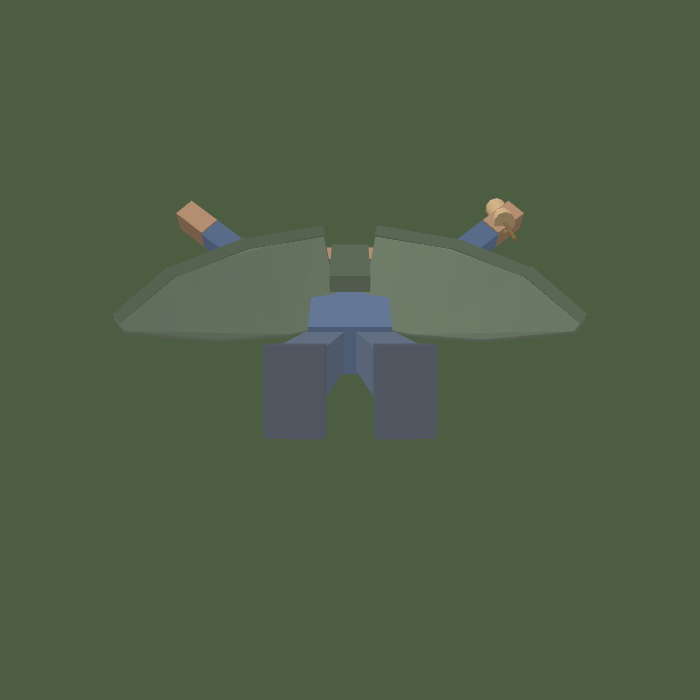
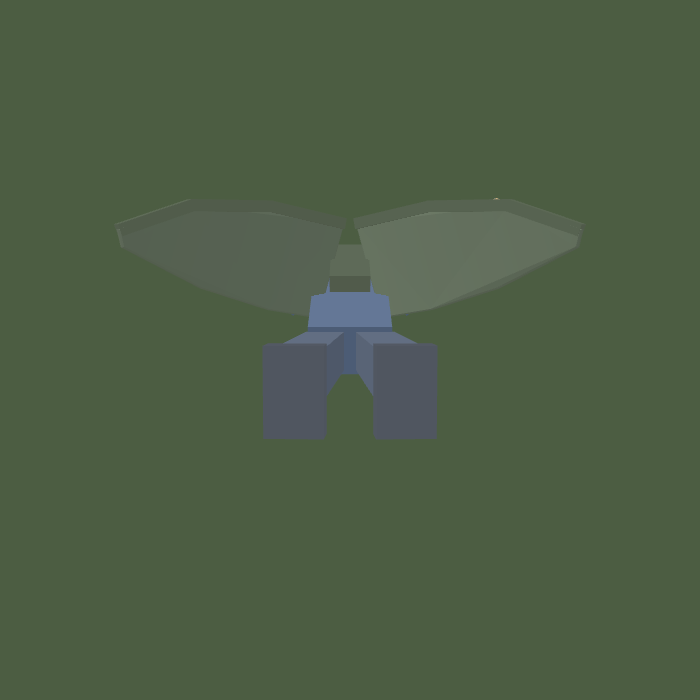
Wings that hold the body up rather than hang off it
Measured root to tip along the mid-chord, in the world, over the pitches of a
real glide:

  pitch          dive 0.30   0.15   level   climb -0.25
  dihedral before    -13.6   -9.2    -4.6          +3.4
  dihedral after     +11.6  +14.9   +17.9         +24.4
  sweep after         31.8   30.6    29.5          25.1
  square to chase     0.88   0.88    0.88          0.88

Tips below the root at every pitch except pulling up is a wing hanging off a
body, and it is what "it kinda looks backwards or upside down" was describing
— from behind, the pair drooped into an inverted V.

The pose was picked by a search, and the search's box did not contain the
answer: its first angle was pinned at the edge of the range in every candidate
it returned, which is what a boundary optimum looks like. Widening the box
turns up a hundred and eight poses that hold the tips above the root at every
flown pitch, and the best of them are *more* square to the chase camera than
the old one, not less — so the property the old pose was chosen for is kept
exactly, at 0.88, while the droop goes.

Pinned by a check that flies the avatar and measures the wing rather than by
the three numbers, because the Euler angles do not mean on paper what they
produce in the air — the one that reads as tilt comes out as sweep — and
working them out by hand got the signs wrong twice.

Claude-Session: https://claude.ai/code/session_01AbPj1ecgWZX5NRERgq23EA

diff --git a/src/player/avatar.js b/src/player/avatar.js
@@ -671,7 +671,19 @@ export class Avatar {
     // silhouette to say it is not. The wing is set at a real angle to the
     // airflow now, which is what a beetle's shell is and what Minecraft's
     // elytra are, and it is the surface you see rather than the edge.
-    this.wingPose = { x: 0.9, y: -0.3, z: 0.2 };
+    //
+    // And then the search that found it was run inside a box that did not
+    // contain the answer. Its first angle was pinned at the edge of the range
+    // in every candidate it returned, which is what a boundary optimum looks
+    // like, and past that edge there are poses that hold the tips *above* the
+    // root at every pitch you fly at without giving up any of the face. Over
+    // the pitches of a real glide — a shallow dive through to a climb — the
+    // old pose ran -13.6, -9.2, -4.6, +3.4 degrees of dihedral: tips below the
+    // root except when pulling up, which is a wing hanging off a body, and is
+    // "it kinda looks backwards or upside down". This one runs +8.1 at worst,
+    // sweeps 29.6 back, and is 0.88 square to the chase camera, which is what
+    // the old one measured.
+    this.wingPose = { x: 1.3, y: -0.5, z: -0.3 };
 
     this.walkPhase = 0;
     this.glideBlend = 0;
